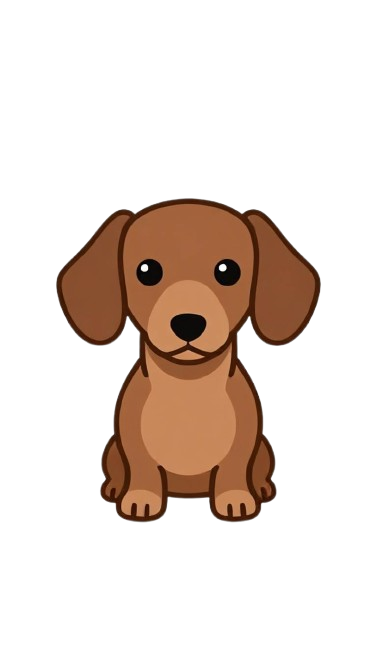
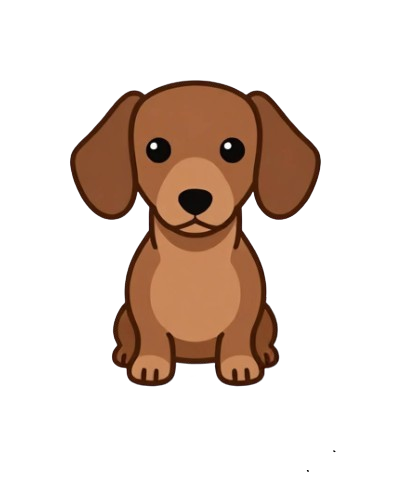
mudei, estou confusa

Changed region(s): [[0.1459, 0.1494, 0.8753, 0.8068]]

diff --git a/mohr/jogoapae/script.js b/mohr/jogoapae/script.js
@@ -17,7 +17,7 @@ function audioDescricaoInicial() {
 
   if (audioAtivo) {
     falar(
-      "Bem-vindo ao Jardim dos Guardiões. Primeiro, escolha um avatar entre capivara, tigre, urso, dragão, gato ou cachorro para iniciar o jogo."
+      "Bem-vindo ao Jardim dos Guardiões. Primeiro, escolha um avatar entre capivara, tigre, macaco, dragão, gato ou cachorro para iniciar o jogo."
     );
 
     audioAtivo = false;
@@ -31,7 +31,7 @@ function audioDescricaoInicial() {
     botao.innerHTML = "🔊 Áudio ligado";
 
     falar(
-      "Bem-vindo ao Jardim dos Guardiões. Primeiro, escolha um avatar entre capivara, tigre, urso, dragão, gato ou cachorro para iniciar o jogo."
+      "Bem-vindo ao Jardim dos Guardiões. Primeiro, escolha um avatar entre capivara, tigre, macaco, dragão, gato ou cachorro para iniciar o jogo."
     );
   }
 }

diff --git a/mohr/jogoapae/index.html b/mohr/jogoapae/index.html
@@ -21,7 +21,7 @@
     <div class="personagens">
       <img src="imagens/capivara.png" alt="Avatar capivara" aria-label="Escolher avatar capivara" onclick="escolherPersonagem('imagens/capivara.png')">
       <img src="imagens/tigre.png" alt="Avatar tigre" aria-label="Escolher avatar tigre" onclick="escolherPersonagem('imagens/tigre.png')">
-      <img src="imagens/urso.png" alt="Avatar urso" aria-label="Escolher avatar urso" onclick="escolherPersonagem('imagens/urso.png')">
+      <img src="imagens/macaco.png" alt="Avatar macaco" aria-label="Escolher avatar macaco" onclick="escolherPersonagem('imagens/macaco.png')">
       <img src="imagens/dragao.png" alt="Avatar dragão" aria-label="Escolher avatar dragão" onclick="escolherPersonagem('imagens/dragao.png')">
       <img src="imagens/gato.png" alt="Avatar gato" aria-label="Escolher avatar gato" onclick="escolherPersonagem('imagens/gato.png')">
       <img src="imagens/cachorro.png" alt="Avatar cachorro" aria-label="Escolher avatar cachorro" onclick="escolherPersonagem('imagens/cachorro.png')">